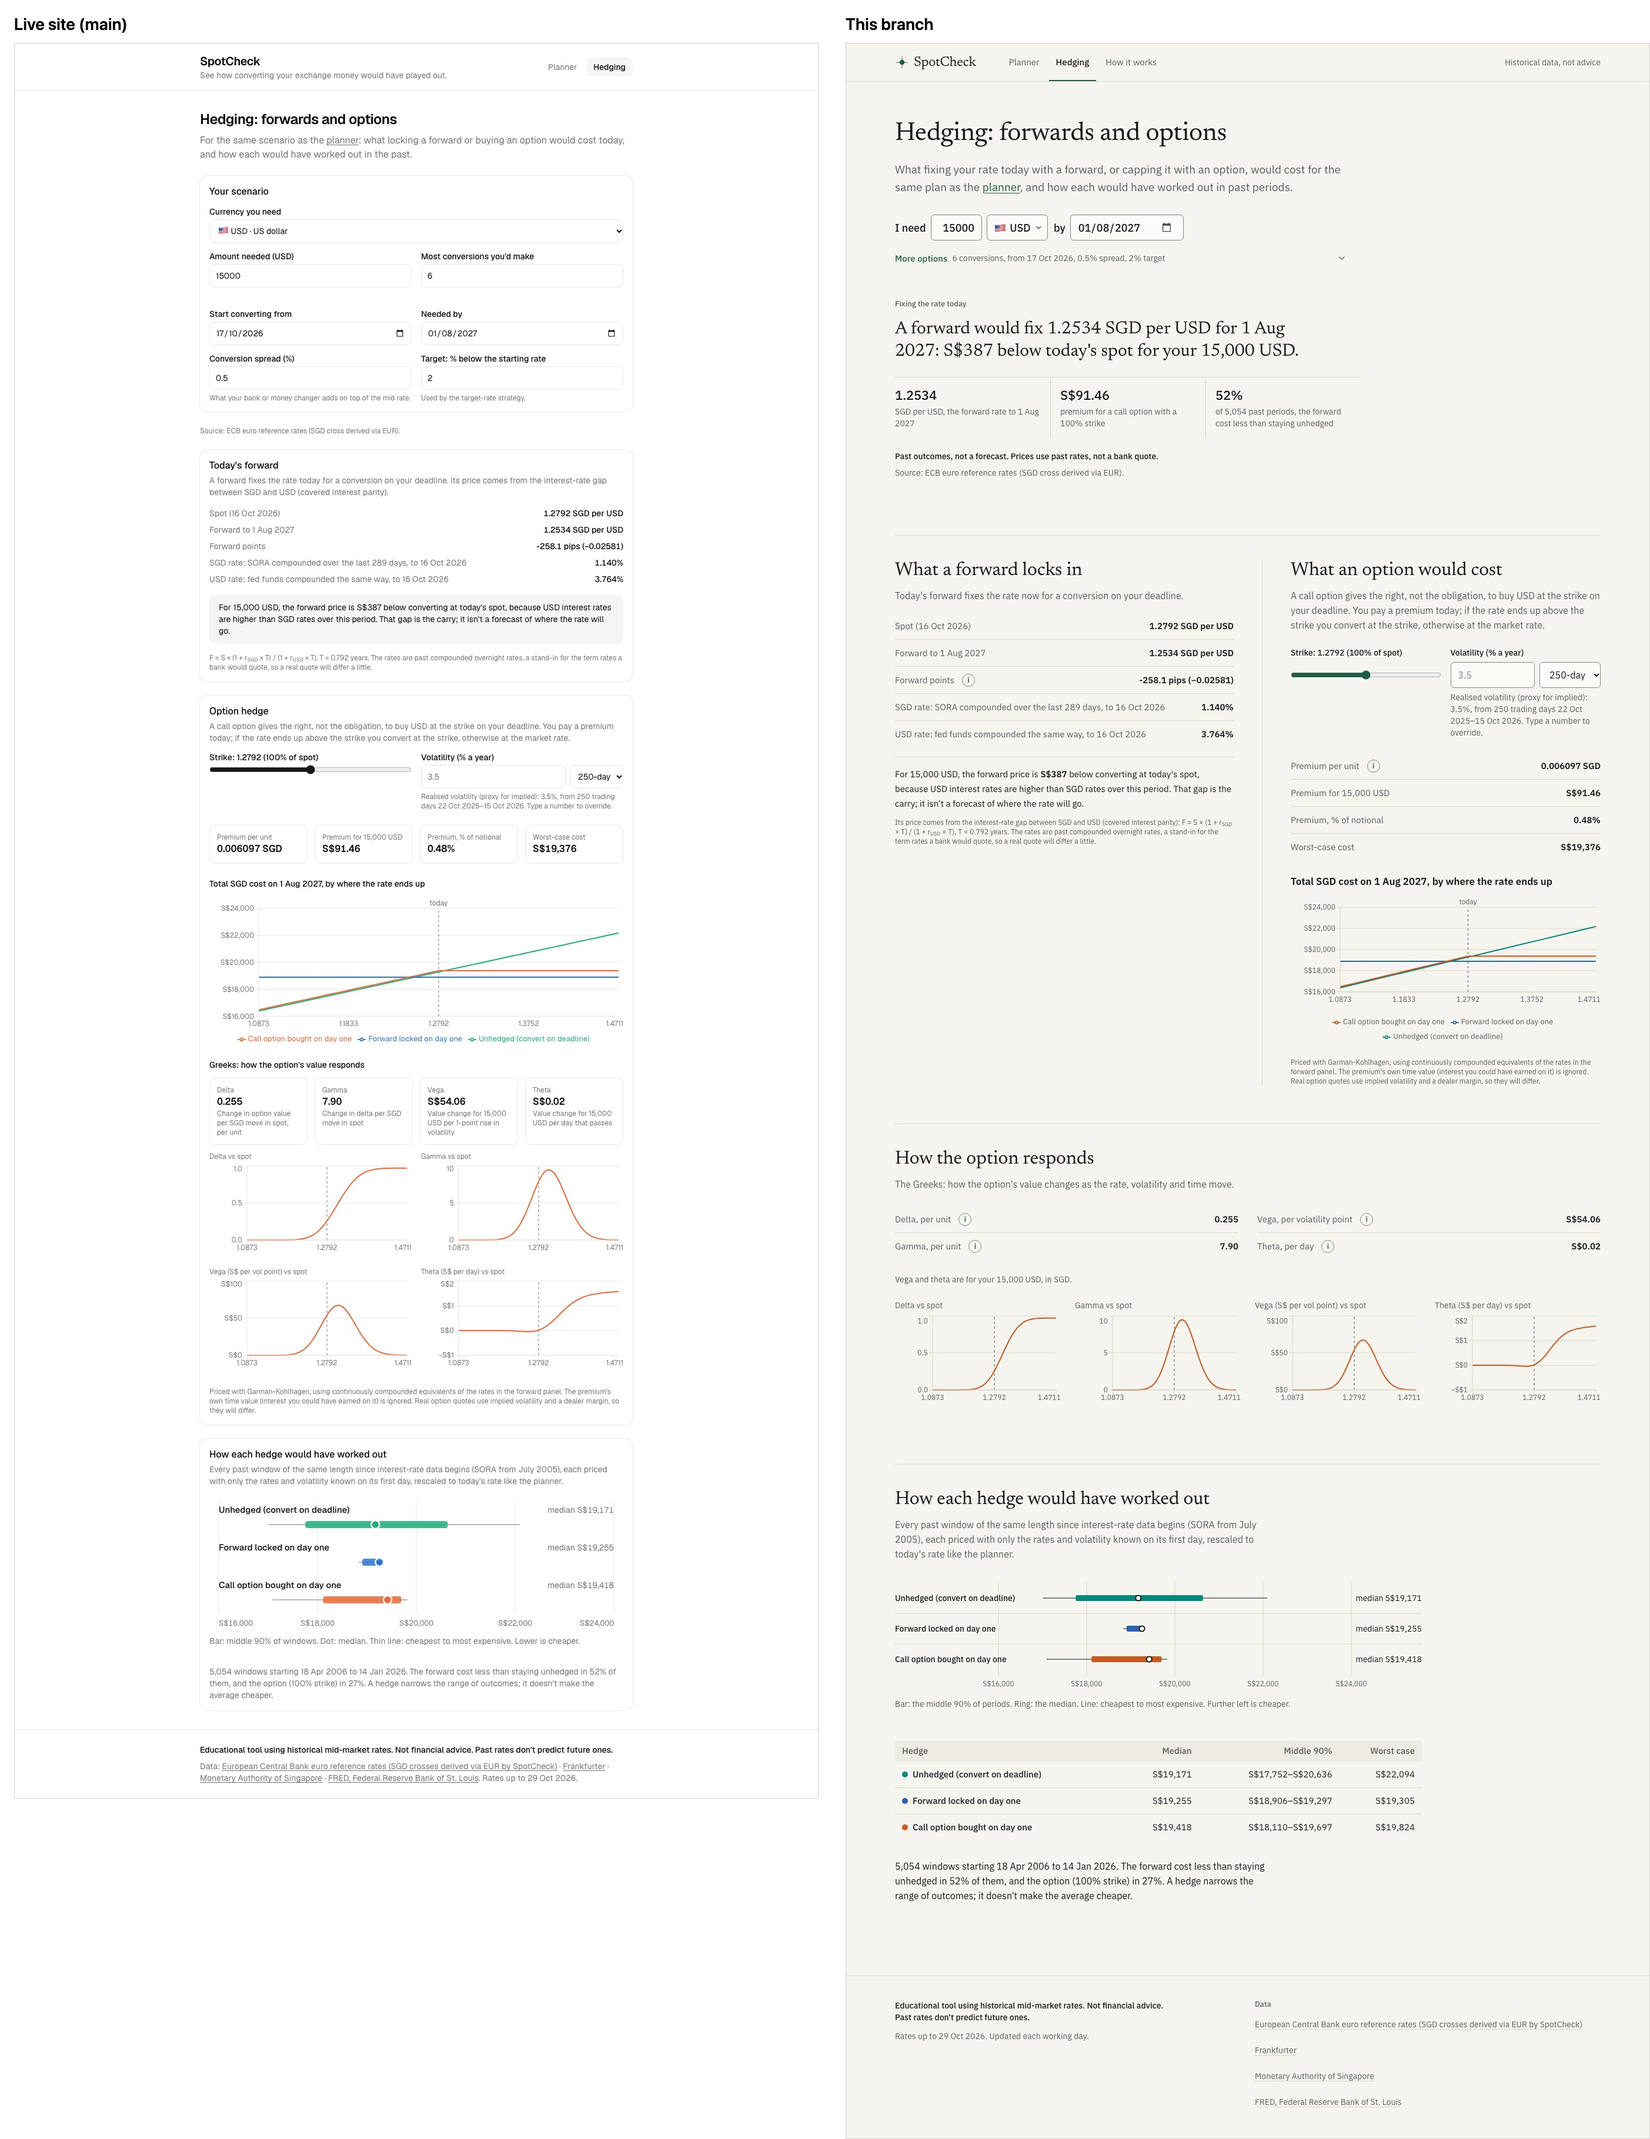
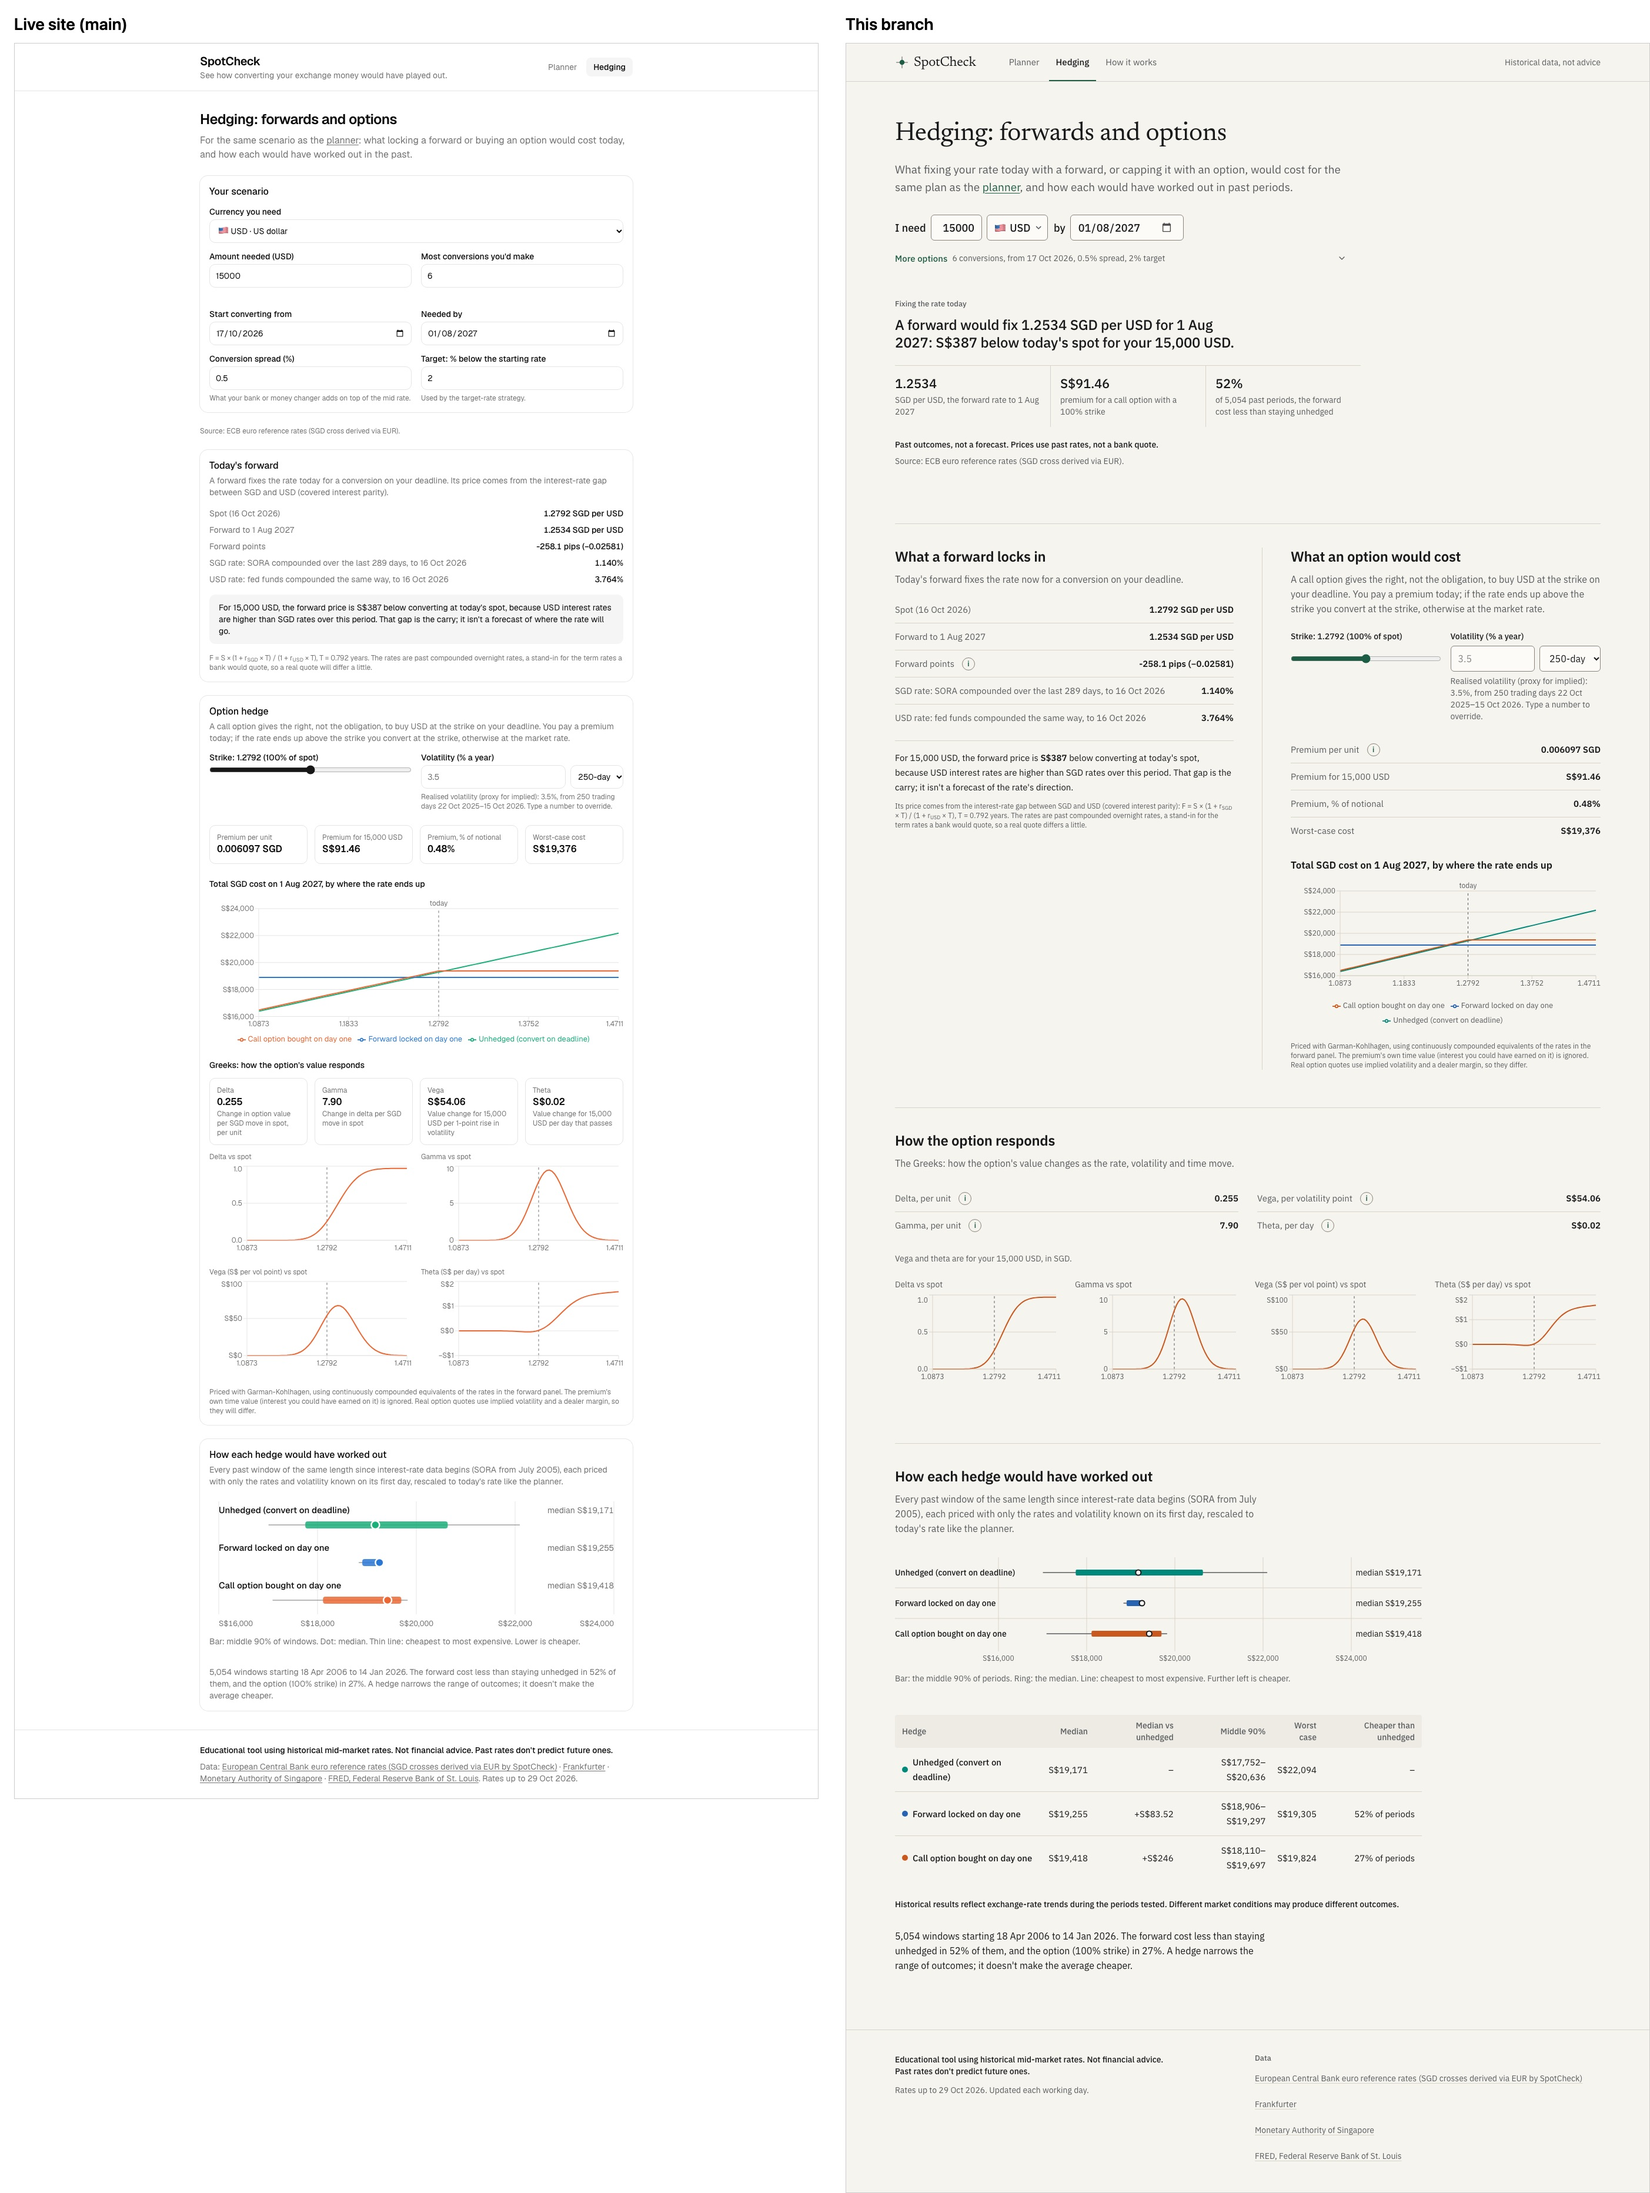
docs: screenshot loop, finals, parity and Lighthouse for the revision
Two rounds at 390x844 and 1366x768, light and dark, for all three pages,
with interaction states; every figure identical to the live site for USD,
JPY and EUR including all 13 hedging values; Lighthouse 91-98 performance
and 100 accessibility.

diff --git a/docs/design/lighthouse.md b/docs/design/lighthouse.md
@@ -1,37 +1,34 @@
 # Lighthouse (mobile)
 
-Lighthouse 12.8.2, mobile form factor, simulated throttling (the default), headless Chromium. Runs are against the static build, served with compression by `scripts/serve-out.ts`. Three runs per page on the final build of the editorial redesign, 31 Oct 2026.
+Lighthouse 12.8.2, mobile form factor, simulated throttling (the default), headless Chromium. Runs are against the static build, served with compression by `scripts/serve-out.ts`. Three runs per page on the final build of the neutral revision of PR #8, 1 Nov 2026.
 
 | Page         | Run | Performance | Accessibility | Best practices | SEO | FCP   | LCP   | TBT    | CLS |
 | ------------ | --- | ----------- | ------------- | -------------- | --- | ----- | ----- | ------ | --- |
-| Planner      | 1   | 92          | 100           | 100            | 100 | 0.8 s | 3.0 s | 190 ms | 0   |
-| Planner      | 2   | 93          | 100           | 100            | 100 | 0.8 s | 3.0 s | 140 ms | 0   |
-| Planner      | 3   | 93          | 100           | 100            | 100 | 0.8 s | 3.0 s | 140 ms | 0   |
-| Hedging      | 1   | 92          | 100           | 100            | 100 | 0.8 s | 3.0 s | 180 ms | 0   |
-| Hedging      | 2   | 92          | 100           | 100            | 100 | 0.8 s | 3.0 s | 180 ms | 0   |
-| Hedging      | 3   | 92          | 100           | 100            | 100 | 0.8 s | 3.0 s | 180 ms | 0   |
-| How it works | 1   | 98          | 100           | 100            | 100 | 0.8 s | 2.3 s | 20 ms  | 0   |
-| How it works | 2   | 98          | 100           | 100            | 100 | 0.8 s | 2.3 s | 20 ms  | 0   |
-| How it works | 3   | 98          | 100           | 100            | 100 | 0.8 s | 2.3 s | 20 ms  | 0   |
+| Planner      | 1   | 97          | 100           | 100            | 100 | 0.8 s | 2.5 s | 110 ms | 0   |
+| Planner      | 2   | 97          | 100           | 100            | 100 | 0.8 s | 2.6 s | 60 ms  | 0   |
+| Planner      | 3   | 97          | 100           | 100            | 100 | 0.8 s | 2.6 s | 60 ms  | 0   |
+| Hedging      | 1   | 91          | 100           | 100            | 100 | 0.8 s | 3.2 s | 170 ms | 0   |
+| Hedging      | 2   | 92          | 100           | 100            | 100 | 0.8 s | 3.2 s | 150 ms | 0   |
+| Hedging      | 3   | 92          | 100           | 100            | 100 | 0.8 s | 3.2 s | 160 ms | 0   |
+| How it works | 1   | 98          | 100           | 100            | 100 | 0.8 s | 2.5 s | 20 ms  | 0   |
+| How it works | 2   | 98          | 100           | 100            | 100 | 0.8 s | 2.5 s | 20 ms  | 0   |
+| How it works | 3   | 98          | 100           | 100            | 100 | 0.8 s | 2.5 s | 20 ms  | 0   |
 
-For comparison, under the same conditions:
+For comparison, `main` (the live site) scores 93 on both of its pages under the same conditions.
 
-- **`main` (the live site):** 93 on both pages.
-- **Direction A (PR #7):** Planner 90–91, Hedging 91–92.
+On every page the largest paint is static text: the question on the Planner, the lede on Hedging and How it works. It paints at about 0.75s on a throttled phone, before any script runs. The interactive parts load around it, into placeholders of their measured size.
 
-On every page the largest paint is static text: the question on the Planner, the lede on Hedging and How it works. It paints at about 0.75s on a throttled phone, before any script runs. The interactive parts load around it into placeholders of their measured size, so nothing moves.
+What keeps it there:
 
-What got here (details in `rounds-b/README.md`, round 2):
-
-- **Fonts:** one static weight of Newsreader, preloaded. The variable version with optical sizes was 129 KB on the critical path.
+- **Fonts:** one static weight of Newsreader, preloaded, plus IBM Plex Sans.
 - **Placeholder heights:** measured at ten widths from 360 to 1600px.
-- **Progress line:** two lines reserved for its message, so the line never grows mid-load.
-- **The progress dot:** animated with `transform`, not `left`.
-- **No prefetching:** none of the in-page links prefetch.
+- **Lazy loading:** the combobox, help-tip popovers, outcome timeline and period detail load just after the page. The period detail is the one that pulls in the chart library.
+- **No prefetching** from in-page links.
+
+A throttled trace of How it works records one small shift (0.025): a paragraph re-wraps by one line when IBM Plex Sans replaces its size-matched fallback on a slow first load. Lighthouse's simulated CLS for the page is 0.
 
 Extra checks, at 390×844 and 1366×768, light and dark, on all three pages:
 
-- **axe-core (WCAG 2.0–2.2 A/AA):** no violations in any of the 12 combinations, including dark-mode contrast, which Lighthouse doesn't test.
+- **axe-core (WCAG 2.0–2.2 A/AA):** no violations in any of the 12 combinations, including dark-mode contrast.
 - **Tap targets:** every visible button, link, input and summary is at least 44×44px. The only exception is Base UI's 1×1 hidden form input, which isn't a control.
-- **Button styles:** `.btn-primary` and `.btn-secondary` only. Copy link is the one primary on the Planner; Hedging and How it works have none.
-- **Horizontal scroll:** none at any of the ten measured widths.
+- **Horizontal scroll:** none.

diff --git a/docs/design/rounds-c/README.md b/docs/design/rounds-c/README.md
@@ -1,0 +1,44 @@
+# Screenshot loop: the neutral revision of PR #8
+
+This loop follows the PR #8 review. The changes:
+
+- the question became "What difference does your exchange strategy make?";
+- every generated verdict ("X had the lowest median…") was removed;
+- the four strategies are shown side by side in a fixed order with the same measures;
+- the wording tests were restored and extended;
+- the phone timeline was regrouped by month;
+- the editorial look was refined into a more product-like interface.
+
+Every round renders the real static build with Playwright at 390×844 (phone, 2× pixels) and 1366×768 (laptop), light and dark, for the Planner, Hedging and How it works. The scenario is fixed: `?c=USD&a=15000&s=2026-10-17&d=2027-08-01&k=6&sp=0.5&t=2`. File names follow `{planner|hedging|how}-{phone|laptop}-{light|dark}.jpg`; each image is the first screen. Full pages of the final build are in `../final/`.
+
+| Folder             | State                                                |
+| ------------------ | ---------------------------------------------------- |
+| `0-before/`        | PR #8 as reviewed, with the "lowest median" headline |
+| `1-first-build/`   | Verdicts removed, the neutral glance, the new copy   |
+| `2-after-round-1/` | After round 1's fixes                                |
+| `3-final/`         | After round 2's fixes and the performance pass       |
+| `states/`          | Interaction states of the final build (see below)    |
+
+## Round 1: `1-first-build` → `2-after-round-1`
+
+What was off:
+
+- **Still a newspaper:** every section heading was the large serif, which read as editorial rather than a product. The serif is now kept for page titles only (the question, and the H1s of Hedging and How it works); section headings are in IBM Plex Sans 600.
+- **Cramped comparison table:** with six measures, the table squeezed into an 8-of-12 column, so headers and ranges wrapped. It now has the full width under a heading row (title left, how to read it right).
+- **A loose glance:** the at-a-glance comparison sat on the page with only a left rule, though it is an interactive object (select a strategy to follow it). It is now a panel next to the converter, matching it, so the hero reads as two instruments side by side.
+- **Hedging's headline** used the serif "result" style, which no longer exists. It is now a sans statement of the forward's price, in the Hedging section-heading style.
+
+## Round 2: `2-after-round-1` → `3-final`
+
+What was off:
+
+- **Faint phone bands:** the monthly low–high bands were almost invisible in dark mode at 16% opacity. They are now 24%.
+- **Placeholder heights:** the glance is now a padded panel, so its loading placeholder heights were re-measured at ten widths, 360–1600px. The Planner and Hedging record no layout shifts while loading.
+- **Lighthouse:** one Planner run scored 86. The page's first script carried the chart library for the period detail, far below the first screen. The timeline and the period detail now load just after the page, into same-size placeholders. The Planner scores 97 on every run.
+
+## `states/`
+
+- `pinned-glance-*`, `pinned-evidence-*`: Equal tranches selected from the glance. It stays highlighted in the range chart and the table; the others dim. Nothing is highlighted until the user picks something.
+- `timeline-hover-*`: the spot cursor and tooltip. Every strategy is listed in the fixed order with its cost and its difference from all at once.
+- `phone-timeline-*`: the phone view, one point per month: each month's band from lowest to highest cost, its median line, and 44px buttons to step a month at a time.
+- `progress-phone`: "Checking 6,922 comparable past periods…" while the replay runs.

diff --git a/docs/design/parity/README.md b/docs/design/parity/README.md
@@ -1,9 +1,9 @@
 # Numbers parity: main vs the redesign
 
 Neither redesign changes a calculation, so every figure must match the live
-site exactly. For the editorial redesign (this version of the file), the live
-site, https://spotcheck-7qb.pages.dev (built from `main`), was compared with
-a local build of the branch, on the same data: both show "Rates up to
+site exactly. For the neutral revision of the editorial redesign (this
+version of the file), the live site, https://spotcheck-7qb.pages.dev (built
+from `main`), was compared with a local build of the branch, on the same data: both show "Rates up to
 29 Oct 2026". Direction A was checked the same way earlier, against a local
 build of `main` and against its Cloudflare preview.
 
